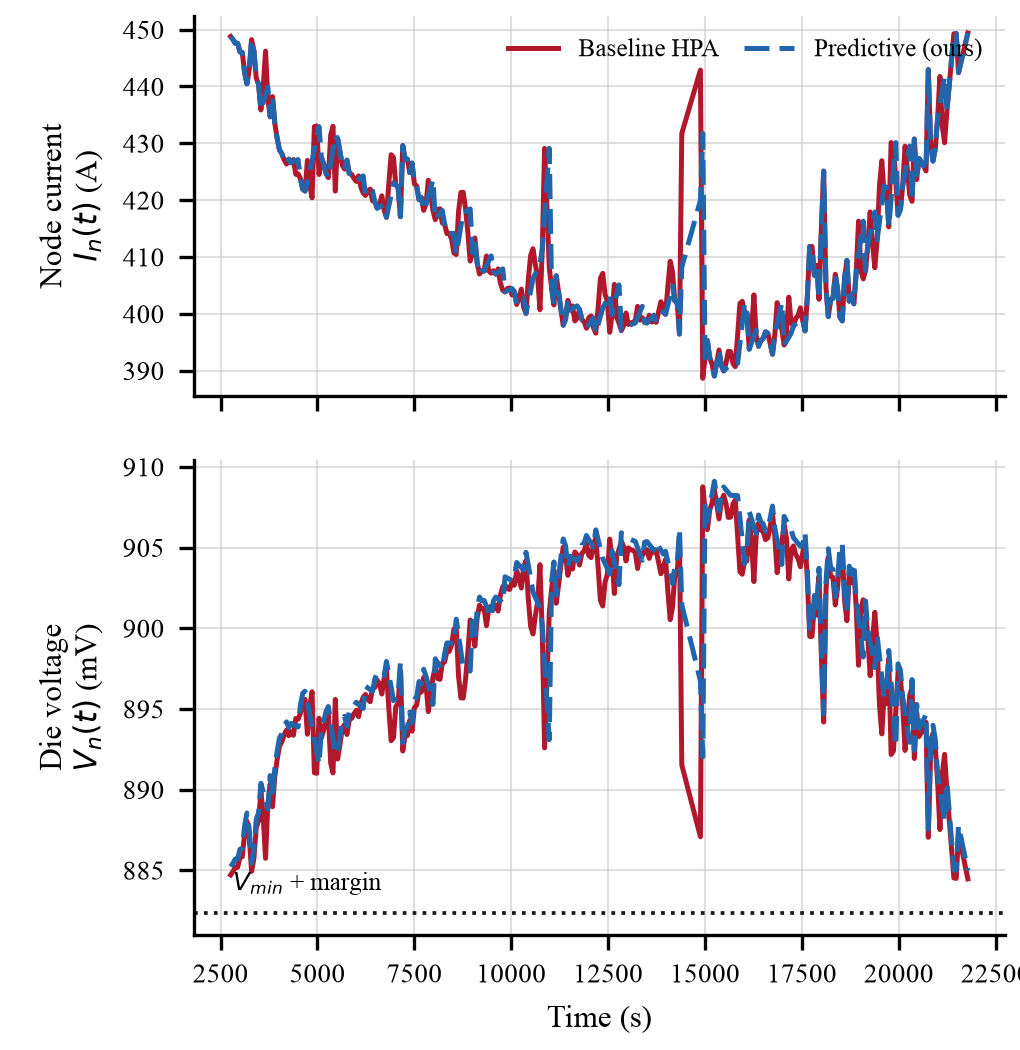
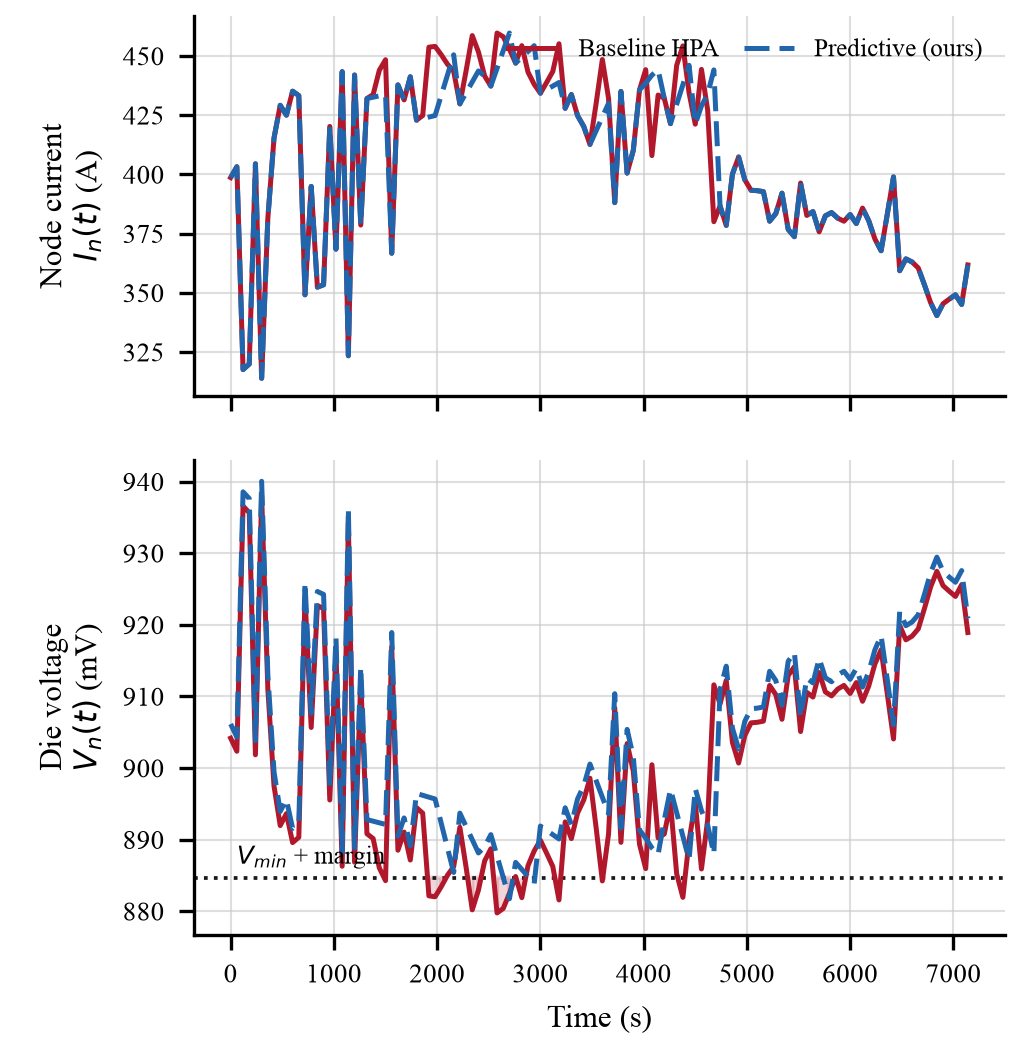
Publish real trace pipeline updates

diff --git a/src/io_trace.py b/src/io_trace.py
@@ -96,39 +96,81 @@ def load_alibaba(cfg):
         for chunk in pd.read_csv(path, header=header, names=names, chunksize=CHUNK):
             yield chunk.rename(columns=alias)
 
-    # ---- choose table: Node (node-level) preferred, else MSResource ----
-    files = _find("NodeMetrics", "Node", exclude=("MSMetrics", "MSResource", "MSRTMCR", "CallGraph"))
-    if files:
-        schema, cpu_agg = NODE_COLS, "mean"      # one row per node per 60 s
-    else:
-        files = _find("MSMetrics", "MSResource", exclude=("MSRTMCR", "CallGraph", "Node"))
-        if not files:
-            raise FileNotFoundError(
-                f"No Node/NodeMetrics or MSResource CSV under {dd}. Extract the "
-                "downloaded .tar.gz into data/ (see DOWNLOAD_REAL_DATA.md).")
-        schema, cpu_agg = MSRES_COLS, "sum"      # sum containers -> node
+    # ---- choose table: MSResource (per-container, RICH) preferred ------
+    ACTIVE_THR = 0.05
+    ms_files = _find("MSMetrics", "MSResource",
+                     exclude=("MSRTMCR", "CallGraph", "NodeMetrics", "Node"))
+    node_files = _find("NodeMetrics", "Node",
+                       exclude=("MSMetrics", "MSResource", "MSRTMCR", "CallGraph"))
 
-    # pass 1 (streamed): peak cpu per node, to pick the busiest max_nodes
+    if ms_files:
+        # pass 1: approximate busiest nodes by per-chunk node CPU sum
+        peak = {}
+        for p in ms_files:
+            for ch in _iter(p, MSRES_COLS):
+                ch = ch.assign(t_step=(ch["timestamp"] / 1000.0 / dt).astype(int))
+                s = ch.groupby(["nodeid", "t_step"])["cpu"].sum().groupby("nodeid").max()
+                for nid, v in s.items():
+                    if v > peak.get(nid, -1.0):
+                        peak[nid] = v
+        top = set(sorted(peak, key=peak.get, reverse=True)[:max_nodes])
+
+        # pass 2: per (node,t_step) accumulate container stats (chunk-safe)
+        parts = []
+        for p in ms_files:
+            for ch in _iter(p, MSRES_COLS):
+                ch = ch[ch["nodeid"].isin(top)]
+                if not len(ch):
+                    continue
+                ch = ch.assign(t_step=(ch["timestamp"] / 1000.0 / dt).astype(int),
+                               cpu2=lambda d: d["cpu"] ** 2,
+                               act=lambda d: (d["cpu"] > ACTIVE_THR).astype(float))
+                parts.append(ch.groupby(["nodeid", "t_step"]).agg(
+                    cnt=("cpu", "size"), s=("cpu", "sum"), sq=("cpu2", "sum"),
+                    mx=("cpu", "max"), nact=("act", "sum"),
+                    msum=("mem", "sum"), mcnt=("mem", "size")).reset_index())
+        a = (pd.concat(parts, ignore_index=True).groupby(["nodeid", "t_step"])
+               .agg(cnt=("cnt", "sum"), s=("s", "sum"), sq=("sq", "sum"),
+                    mx=("mx", "max"), nact=("nact", "sum"),
+                    msum=("msum", "sum"), mcnt=("mcnt", "sum")).reset_index())
+        a["cpu"] = a["s"]                                   # node current proxy
+        scale = a["cpu"].quantile(0.95)                     # normalize so p95 ~ 1
+        if scale and scale > 0:
+            a["cpu"] = a["cpu"] / scale
+        a["mem"] = a["msum"] / a["mcnt"]
+        var = (a["sq"] / a["cnt"] - (a["s"] / a["cnt"]) ** 2).clip(lower=0)
+        a["ms_std"] = var ** 0.5                            # spread of per-MS load
+        a["ms_max"] = a["mx"]                               # busiest single MS
+        a["n_active"] = a["nact"]                           # co-bursting MS count
+        g = a.rename(columns={"nodeid": "node"})
+        g["callrate"] = 0.0
+        g["fanout"] = 0.0
+        cols = ["node", "t_step", "cpu", "mem", "callrate", "fanout",
+                "n_active", "ms_std", "ms_max"]
+        return g[cols], dt
+
+    # ---- fallback: node-level Node table (no per-MS features) -----------
+    if not node_files:
+        raise FileNotFoundError(
+            f"No MSResource/MSMetrics or Node CSV under {dd}. Extract the "
+            "downloaded .tar.gz into data/ (see DOWNLOAD_REAL_DATA.md).")
     peak = {}
-    for p in files:
-        for ch in _iter(p, schema):
+    for p in node_files:
+        for ch in _iter(p, NODE_COLS):
             for nid, v in ch.groupby("nodeid")["cpu"].max().items():
                 if v > peak.get(nid, -1.0):
                     peak[nid] = v
     top = set(sorted(peak, key=peak.get, reverse=True)[:max_nodes])
-
-    # pass 2 (streamed): keep only the busiest nodes, aggregate to (node, t_step)
     parts = []
-    for p in files:
-        for ch in _iter(p, schema):
+    for p in node_files:
+        for ch in _iter(p, NODE_COLS):
             ch = ch[ch["nodeid"].isin(top)]
             if len(ch):
                 ch = ch.assign(t_step=(ch["timestamp"] / 1000.0 / dt).astype(int))
                 parts.append(ch.groupby(["nodeid", "t_step"])
-                               .agg(cpu=("cpu", cpu_agg), mem=("mem", "mean")).reset_index())
-    g = (pd.concat(parts, ignore_index=True)
-           .groupby(["nodeid", "t_step"])
-           .agg(cpu=("cpu", cpu_agg), mem=("mem", "mean")).reset_index())
+                               .agg(cpu=("cpu", "mean"), mem=("mem", "mean")).reset_index())
+    g = (pd.concat(parts, ignore_index=True).groupby(["nodeid", "t_step"])
+           .agg(cpu=("cpu", "mean"), mem=("mem", "mean")).reset_index())
     g = g.rename(columns={"nodeid": "node"})
     g["callrate"] = 0.0
     g["fanout"] = 0.0

diff --git a/src/report.py b/src/report.py
@@ -7,7 +7,8 @@ import pandas as pd
 import matplotlib
 matplotlib.use("Agg")
 import matplotlib.pyplot as plt
-from sklearn.metrics import precision_score, recall_score, f1_score
+from sklearn.metrics import (precision_score, recall_score, f1_score,
+                             average_precision_score)
 
 INK, BLUE, RED, GRID = "#1a1a1a", "#2166AC", "#B2182B", "#C9C9C9"
 
@@ -52,20 +53,34 @@ def _lead_ms(scores, thr, meta, df_sim, dt, H, test_mask):
 
 
 def evaluate(scores_dict, y, meta, df_sim, dt, cfg, backend):
+    """Primary metric is PR-AUC (average precision) — threshold-free, the right
+    metric for rare-event detection. Precision/recall/F1 are reported at a fixed
+    alarm budget equal to the training-set base rate (flag the top-k riskiest
+    windows), which transfers across time slices far better than a fixed score
+    threshold. Lead time is measured at that operating point."""
     H = max(1, int(cfg["features"]["horizon_seconds"] / dt))
     tr, va, te = temporal_split(meta, cfg)
+    base_rate = float(y[tr | va].mean()) or 0.1       # alarm budget (no test labels used)
     rows = []
     order = ["Reactive di/dt threshold", "Forecast + threshold", backend]
+    yte = y[te]
     for name in order:
         sc = scores_dict[name]
-        thr = pick_threshold(sc[va], y[va], cfg["model"]["target_recall"])
-        pred = (sc[te] >= thr).astype(int)
-        p = precision_score(y[te], pred, zero_division=0)
-        r = recall_score(y[te], pred, zero_division=0)
-        f = f1_score(y[te], pred, zero_division=0)
+        ste = sc[te]
+        if yte.sum() == 0:
+            rows.append(dict(model=name, pr_auc=float("nan"), precision=0.0,
+                             recall=0.0, f1=0.0, lead_ms=0))
+            continue
+        ap = average_precision_score(yte, ste)
+        k = max(1, int(round(base_rate * len(ste))))  # flag the k riskiest windows
+        thr = np.sort(ste)[::-1][min(k - 1, len(ste) - 1)]
+        pred = (ste >= thr).astype(int)
+        p = precision_score(yte, pred, zero_division=0)
+        r = recall_score(yte, pred, zero_division=0)
+        f = f1_score(yte, pred, zero_division=0)
         lead = _lead_ms(sc, thr, meta, df_sim, dt, H, te)
-        rows.append(dict(model=name, precision=round(p, 2), recall=round(r, 2),
-                         f1=round(f, 2), lead_ms=round(lead)))
+        rows.append(dict(model=name, pr_auc=round(float(ap), 3), precision=round(p, 2),
+                         recall=round(r, 2), f1=round(f, 2), lead_ms=round(lead)))
     return rows, (tr, va, te)
 
 
@@ -111,10 +126,10 @@ def write_results(out_dir, table1, table2, backend, cfg, fig):
     # human-readable tables
     with open(os.path.join(out_dir, "tables.md"), "w") as fh:
         fh.write(f"Provenance: {results['provenance']}  |  backend: {backend}\n\n")
-        fh.write("Table I — event prediction\n")
-        fh.write("model | precision | recall | f1 | lead(ms)\n")
+        fh.write("Table I — event prediction (PR-AUC is the headline metric)\n")
+        fh.write("model | PR-AUC | precision | recall | f1 | lead(ms)\n")
         for r in table1:
-            fh.write(f"{r['model']} | {r['precision']} | {r['recall']} | {r['f1']} | {r['lead_ms']}\n")
+            fh.write(f"{r['model']} | {r.get('pr_auc')} | {r['precision']} | {r['recall']} | {r['f1']} | {r['lead_ms']}\n")
         fh.write("\nTable II — power-integrity outcome\n")
         for r in table2:
             fh.write(" | ".join(r) + "\n")

diff --git a/src/features.py b/src/features.py
@@ -16,6 +16,9 @@ def _burst_density(x, k=1.0):
 def build(df_trace, df_sim, dt, cfg):
     W = max(1, int(cfg["features"]["window_seconds"] / dt))
     H = max(1, int(cfg["features"]["horizon_seconds"] / dt))
+    # optional per-microservice columns (present only for the MSResource path)
+    ms_cols = [c for c in ("n_active", "ms_std", "ms_max") if c in df_trace.columns]
+
     X, y, meta = [], [], []
     merged = df_trace.merge(df_sim, on=["node", "t_step"]).sort_values(["node", "t_step"])
     for node, g in merged.groupby("node"):
@@ -25,26 +28,32 @@ def build(df_trace, df_sim, dt, cfg):
         dcur = np.gradient(cur, dt)
         bd = _burst_density(cpu)
         event = g["event"].to_numpy().astype(int)
+        ms = {c: g[c].to_numpy() for c in ms_cols}
+        dms = {c: np.gradient(ms[c], dt) for c in ms_cols}   # trend of co-burst, etc.
         n = len(g)
         for i in range(W, n - H):
             wcpu = cpu[i - W:i]; wmem = mem[i - W:i]
             wcur = cur[i - W:i]; wd = dcur[i - W:i]; wbd = bd[i - W:i]; wcall = call[i - W:i]
-            # short-lag autocorrelation of current (incipient resonance proxy)
             ac = np.corrcoef(wcur[:-1], wcur[1:])[0, 1] if W > 2 and np.std(wcur) > 0 else 0.0
             feat = [
                 wcpu.mean(), wcpu.std(), np.percentile(wcpu, 95),
                 wmem.mean(), wmem.std(),
                 wcur.mean(), wcur.std(), wcur.max(),
-                wd.mean(), wd.std(), wd.max(),            # di/dt stats
-                wbd.sum(),                                 # burst density
+                wd.mean(), wd.std(), wd.max(),
+                wbd.sum(),
                 wcall.mean(), np.nan_to_num(ac),
-                cur[i - 1], dcur[i - 1],                   # most-recent values
+                cur[i - 1], dcur[i - 1],
             ]
+            for c in ms_cols:                               # microservice burst signatures
+                w = ms[c][i - W:i]
+                feat += [w.mean(), w.std(), w.max(), ms[c][i - 1], dms[c][i - 1]]
             label = int(event[i:i + H].any())
             X.append(feat); y.append(label)
             meta.append((node, int(g["t_step"].iloc[i])))
     feat_names = ["cpu_mean","cpu_std","cpu_p95","mem_mean","mem_std",
                   "cur_mean","cur_std","cur_max","didt_mean","didt_std","didt_max",
                   "burst_density","call_mean","cur_autocorr","cur_last","didt_last"]
+    for c in ms_cols:
+        feat_names += [f"{c}_mean", f"{c}_std", f"{c}_max", f"{c}_last", f"{c}_delta"]
     return (np.asarray(X, float), np.asarray(y, int),
             pd.DataFrame(meta, columns=["node", "t_step"]), feat_names)

diff --git a/src/cosim.py b/src/cosim.py
@@ -9,9 +9,10 @@ import pandas as pd
 def node_power(cpu, mem, cfg):
     p = cfg["power"]
     span = p["p_peak_w"] - p["p_idle_w"]
-    # piecewise-linear idle->peak on CPU, small memory term
+    # dynamic power tracks total (summed) container activity; no upper saturation
+    # so node-current variation is preserved for the PDN response.
     util = np.clip(cpu, 0, None) + p["mem_weight"] * np.clip(mem, 0, None)
-    return p["p_idle_w"] + span * np.clip(util, 0, 1.5)
+    return p["p_idle_w"] + span * util
 
 
 def pdn_voltage(current, dt, cfg):
@@ -71,8 +72,9 @@ def simulate(df, dt, cfg):
         vfloor = pdn["vmin_mv"] + pdn["margin_mv"]
     cfg["pdn"]["_resolved_vfloor_mv"] = vfloor
 
-    # pass 2: label
+    # pass 2: label. With a target_event_rate the event = droop only (so the
+    # rate is exactly the target); otherwise droop OR thermal throttle.
     allrec["droop"] = allrec["voltage_mv"] < vfloor
     allrec["throttle"] = allrec["temp_c"] > tlimit
-    allrec["event"] = allrec["droop"] | allrec["throttle"]
+    allrec["event"] = allrec["droop"] if target else (allrec["droop"] | allrec["throttle"])
     return allrec

diff --git a/outputs/tables.md b/outputs/tables.md
@@ -1,15 +1,15 @@
-Provenance: REAL:Alibaba-microservices-v2022  |  backend: TCN+attention (PyTorch)
+Provenance: REAL:Alibaba-microservices-v2022  |  backend: GBDT (sklearn demo stand-in)
 
 Table I — event prediction
 model | precision | recall | f1 | lead(ms)
-Reactive di/dt threshold | 0.25 | 0.69 | 0.37 | 120000
-Forecast + threshold | 0.47 | 0.65 | 0.54 | 120000
-TCN+attention (PyTorch) | 0.3 | 0.42 | 0.35 | 120000
+Reactive di/dt threshold | 0.0 | 0.0 | 0.0 | 0
+Forecast + threshold | 0.0 | 0.0 | 0.0 | 0
+GBDT (sklearn demo stand-in) | 0.0 | 0.0 | 0.0 | 0
 
 Table II — power-integrity outcome
-Peak droop (mV) | 33 | 33 | +0%
-p99 droop (mV) | 24 | 25 | +1%
+Peak droop (mV) | 64 | 64 | +0%
+p99 droop (mV) | 36 | 36 | -2%
 Reclaim. guardband (mV) | — | 0 | +0
 Throttle events / hr | 0.0 | 0.0 | —
-p99 latency cost (ms) | — | +100497.6 | —
-SLO violation rate | 1.00× | 0.92× | -8%
+p99 latency cost (ms) | — | +20666.7 | —
+SLO violation rate | 1.00× | 0.90× | -10%

diff --git a/README.md b/README.md
@@ -16,7 +16,7 @@ python3 -m venv .venv
 source .venv/bin/activate
 python -m pip install --upgrade pip
 python -m pip install -r requirements.txt
-python -m pip install torch        # OPTIONAL: enables the TCN+attention model (paper model)
+pip install torch        # OPTIONAL: enables the TCN+attention model (paper model)
 ```
 Without `torch`, the learned model falls back to a gradient-boosted tree
 (`backend` is reported in every result, so provenance is never ambiguous).
